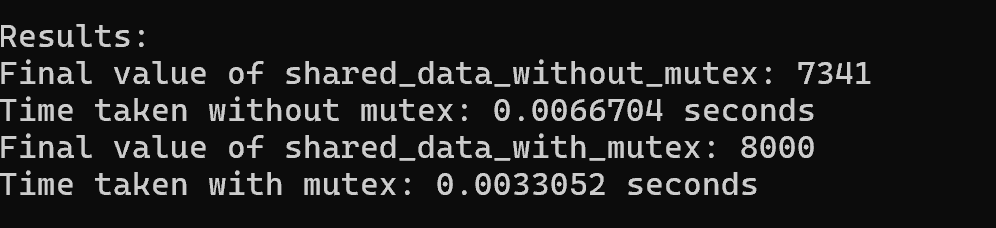
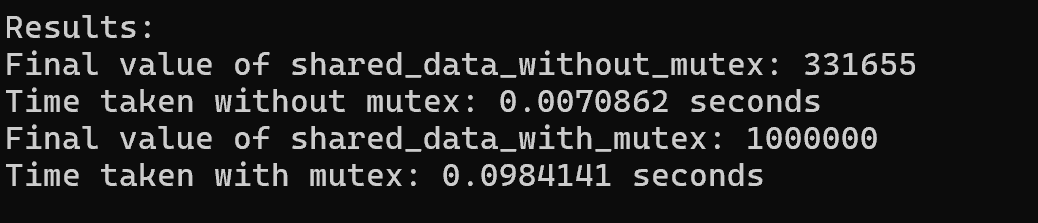
3

Changed region(s): [[0.0, 0.565, 0.8715, 0.861], [0.0, 0.0538, 0.9026, 0.3767], [0.0, 0.4036, 0.8404, 0.5381]]

diff --git a/3/BPC.cpp b/3/BPC.cpp
@@ -11,48 +11,37 @@ int shared_data_with_mutex = 0;
 // Мьютекс для синхронизации доступа к shared_data_with_mutex
 std::mutex mtx;
 
-// Функция для инкремента без мьютекса
+// Функция без мьютекса
 void increment_without_mutex(int id) {
-    for (int i = 0; i < 1000; ++i) {
-        // Изменяем общий ресурс БЕЗ синхронизации
+    for (int i = 0; i < 100000; ++i) {
         ++shared_data_without_mutex;
-
-        // Выводим информацию (может быть беспорядочным из-за гонки данных)
-        //std::cout << "Thread " << id << " incremented shared_data_without_mutex to " << shared_data_without_mutex << std::endl;
     }
 }
 
-// Функция для инкремента с мьютексом
+// Функция с мьютексом
 void increment_with_mutex(int id) {
-    for (int i = 0; i < 1000; ++i) {
-        // Захватываем мьютекс перед доступом к общему ресурсу
+    for (int i = 0; i < 100000; ++i) {
         std::lock_guard<std::mutex> lock(mtx);
-
-        // Изменяем общий ресурс
         ++shared_data_with_mutex;
-
-        // Выводим информацию
-        //std::cout << "Thread " << id << " incremented shared_data_with_mutex to " << shared_data_with_mutex << std::endl;
     }
 }
 
 int main() {
-    // Количество потоков
-    const int num_threads = 8;
+    const int num_threads = 10;
 
-    // Векторы для хранения потоков
+
     std::vector<std::thread> threads_without_mutex;
     std::vector<std::thread> threads_with_mutex;
 
-    // Замер времени для инкремента без мьютекса
+
     auto start_without_mutex = std::chrono::high_resolution_clock::now();
 
-    // Создаем и запускаем потоки без мьютекса
+  
     for (int i = 0; i < num_threads; ++i) {
         threads_without_mutex.push_back(std::thread(increment_without_mutex, i));
     }
 
-    // Ожидаем завершения всех потоков без мьютекса
+  
     for (auto& t : threads_without_mutex) {
         t.join();
     }
@@ -60,15 +49,15 @@ int main() {
     auto end_without_mutex = std::chrono::high_resolution_clock::now();
     std::chrono::duration<double> elapsed_without_mutex = end_without_mutex - start_without_mutex;
 
-    // Замер времени для инкремента с мьютексом
+  
     auto start_with_mutex = std::chrono::high_resolution_clock::now();
 
-    // Создаем и запускаем потоки с мьютексом
+
     for (int i = 0; i < num_threads; ++i) {
         threads_with_mutex.push_back(std::thread(increment_with_mutex, i));
     }
 
-    // Ожидаем завершения всех потоков с мьютексом
+  
     for (auto& t : threads_with_mutex) {
         t.join();
     }
@@ -76,7 +65,7 @@ int main() {
     auto end_with_mutex = std::chrono::high_resolution_clock::now();
     std::chrono::duration<double> elapsed_with_mutex = end_with_mutex - start_with_mutex;
 
-    // Выводим итоговые значения и время выполнения
+
     std::cout << "\nResults:\n";
     std::cout << "Final value of shared_data_without_mutex: " << shared_data_without_mutex << std::endl;
     std::cout << "Time taken without mutex: " << elapsed_without_mutex.count() << " seconds\n";
